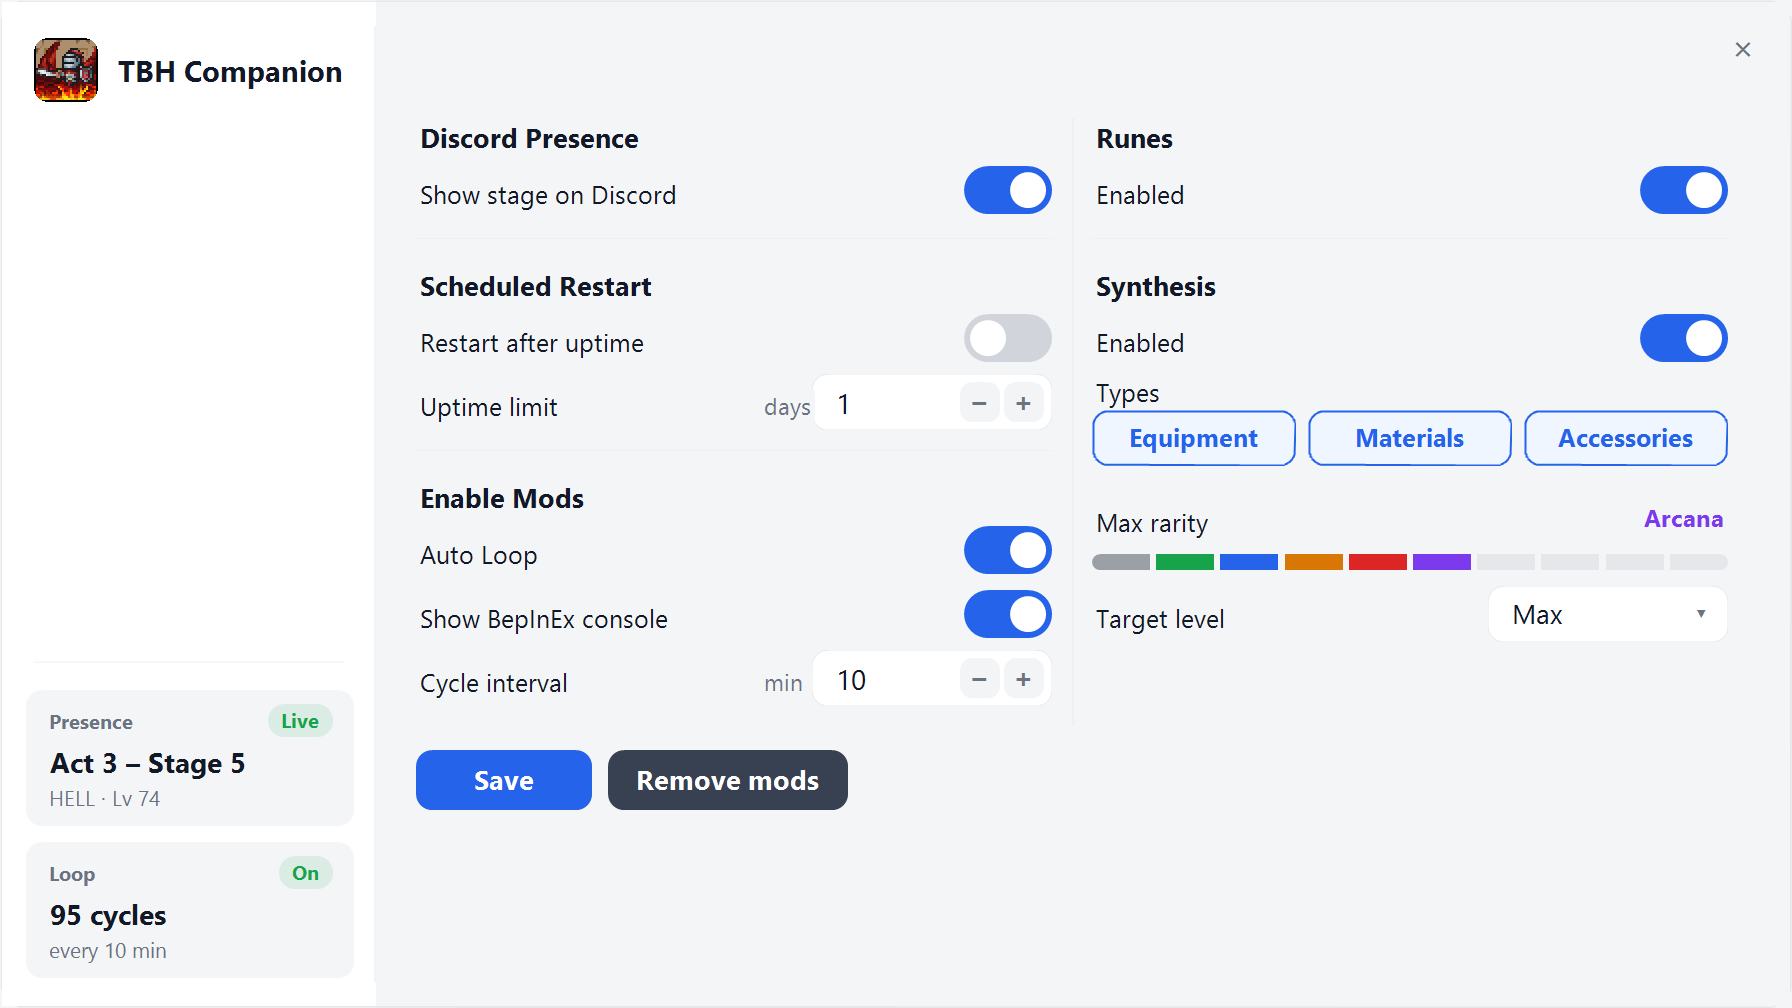
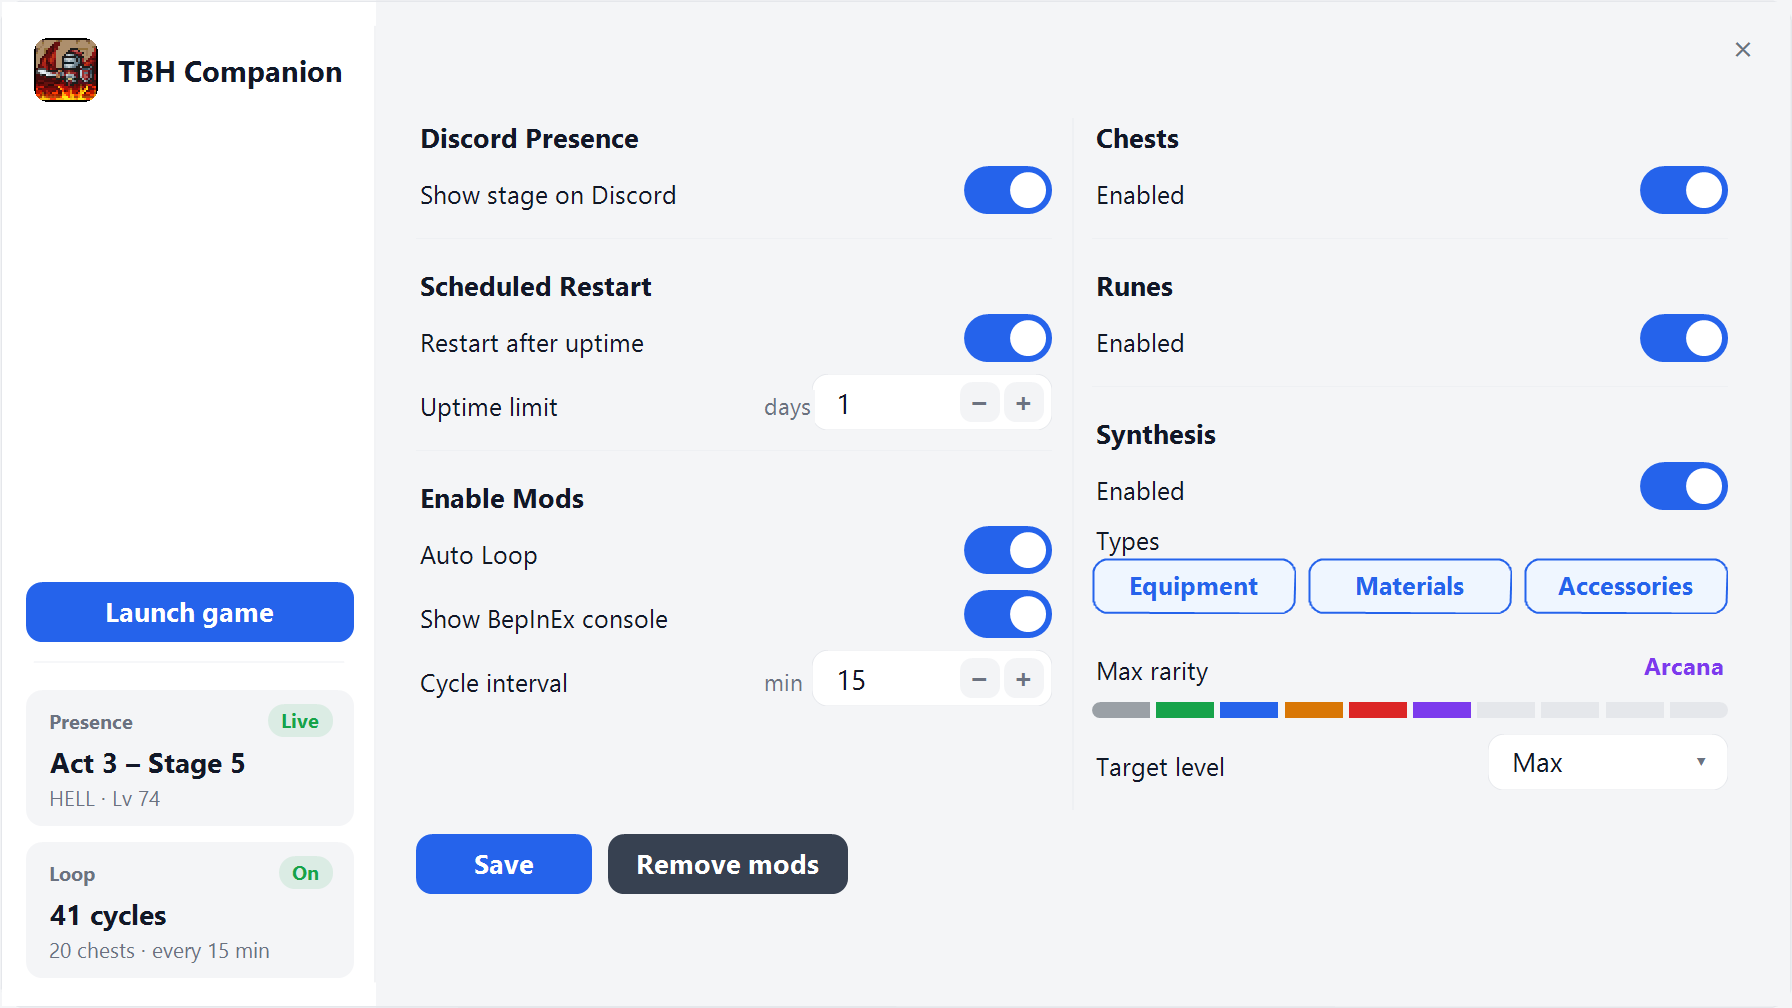
feat(companion): add Launch game button to the side panel (#30)
* feat(companion): add Launch game button to the side panel

EOF

* fix(companion): share LaunchAndConfirm for side-panel launch

---------

diff --git a/src/StatusForm.cs b/src/StatusForm.cs
@@ -84,7 +84,7 @@ namespace TbhCompanion
         Label _rarityValue;
         Stepper _cycleMin, _restartDays;
         FlatDrop _desiredLevel;
-        FlatButton _saveBtn, _setupBtn, _removeBtn;
+        FlatButton _saveBtn, _setupBtn, _removeBtn, _launchBtn;
         Label _cfgNote;
 
         public StatusForm(Func<string> stageLabel, Func<bool> discordConnected, Func<string> diag,
@@ -160,6 +160,14 @@ namespace TbhCompanion
             if (Build.Synth)
                 _live.SetRow(1, "Loop", "—", "", "Off", Theme.TextMuted);
             _side.Controls.Add(_live);
+
+            // Launch sits just above the status rule.
+            const int launchH = 30;
+            _launchBtn = new FlatButton { Text = "Launch game", Fill = Theme.Accent };
+            _launchBtn.SetBounds(Sc(12), _live.Top - Sc(14 + 10 + launchH), Sc(SideW - 24), Sc(launchH));
+            _launchBtn.Click += delegate { LaunchGame(); };
+            _side.Controls.Add(_launchBtn);
+            RefreshLaunchButton();
         }
 
         void PaintSide(object sender, PaintEventArgs e)
@@ -173,7 +181,7 @@ namespace TbhCompanion
             using (var f = Theme.F(11f, FontStyle.Bold)) using (var b = new SolidBrush(Theme.TextDark))
                 g.DrawString("TBH Companion", f, b, new PointF(Sc(56), Sc(24)));
 
-            // Soft rule above the status block.
+            // Soft rule between the launch button and the status block.
             int ruleY = _live.Top - Sc(14);
             using (var pen = new Pen(Theme.Divider))
                 g.DrawLine(pen, Sc(16), ruleY, _side.Width - Sc(16), ruleY);
@@ -654,6 +662,39 @@ namespace TbhCompanion
             catch { }
         }
 
+        // ---- launch game ----
+
+        void LaunchGame()
+        {
+            if (_modOpRunning || GameRestart.IsGameRunning() || GameRestart.IsBusy)
+            {
+                RefreshLaunchButton();
+                return;
+            }
+            GameRestart.TryBeginLaunch();
+            RefreshLaunchButton();
+        }
+
+        void RefreshLaunchButton()
+        {
+            if (_launchBtn == null) return;
+            bool running = GameRestart.IsGameRunning();
+            bool launching = GameRestart.IsLaunching();
+            _launchBtn.Enabled = !running && !launching && !_modOpRunning;
+            _launchBtn.Text = running ? "Running" : launching ? "Launching…" : "Launch game";
+            _launchBtn.Invalidate();
+        }
+
+        // Dev (--shot): freeze the idle launch label so docs don't depend on a live game.
+        internal void PrepareDocsShot()
+        {
+            if (_timer != null) _timer.Stop();
+            if (_launchBtn == null) return;
+            _launchBtn.Enabled = true;
+            _launchBtn.Text = "Launch game";
+            _launchBtn.Invalidate();
+        }
+
         // ---- live status ----
 
         void UpdateStatus()
@@ -662,6 +703,8 @@ namespace TbhCompanion
             bool connected = _discordConnected != null && _discordConnected();
             string diag = _diag != null ? _diag() : null;
             bool presenceOn = _presenceEnabled == null || _presenceEnabled();
+
+            RefreshLaunchButton();
 
             if (_presenceToggle != null && _presenceToggle.Checked != presenceOn)
                 _presenceToggle.Checked = presenceOn;

diff --git a/src/GameRestart.cs b/src/GameRestart.cs
@@ -5,9 +5,9 @@ using System.Threading;
 
 namespace TbhCompanion
 {
-    // Closes and relaunches TaskBarHero after a configurable uptime, so long
-    // idle sessions can shed accumulated RAM. Opt-in via AppSettings.
-    // Heavy work runs on a background thread so the presence loop stays responsive.
+    // TaskBarHero process lifecycle: user launch, and optional scheduled
+    // close/relaunch after a configurable uptime (AppSettings). Heavy work
+    // runs on a background thread so the presence loop stays responsive.
     static class GameRestart
     {
         const string GAME = "TaskBarHero";
@@ -16,9 +16,30 @@ namespace TbhCompanion
         const int ExeAppearSeconds = 20;
 
         static DateTime _cooldownUntilUtc = DateTime.MinValue;
-        static int _busy; // 0 idle, 1 restart in flight
+        static int _busy; // 0 idle, 1 launch/restart in flight
 
         public static bool IsBusy { get { return _busy != 0; } }
+
+        public static bool IsGameRunning() { return FindGame() != null; }
+
+        // True while a launch/restart is in flight and the game process is not up yet.
+        public static bool IsLaunching() { return _busy != 0 && FindGame() == null; }
+
+        // Queue Steam → wait → exe fallback on a worker. Returns false if the game
+        // is already running or another launch/restart holds the busy lock.
+        public static bool TryBeginLaunch(Action<string> log = null)
+        {
+            if (FindGame() != null) return false;
+            if (Interlocked.CompareExchange(ref _busy, 1, 0) != 0) return false;
+
+            string exePath = ResolveExePath(null);
+            ThreadPool.QueueUserWorkItem(delegate
+            {
+                try { LaunchAndConfirm(exePath, log, delegate { return true; }); }
+                finally { Interlocked.Exchange(ref _busy, 0); }
+            });
+            return true;
+        }
 
         // Block until an in-flight restart finishes (tray shutdown).
         public static void WaitIdle(int timeoutMs)
@@ -66,13 +87,8 @@ namespace TbhCompanion
 
             // Capture what we need — Process may dispose after the caller breaks out.
             int pid = 0;
-            string exePath = null;
-            try { if (proc != null) { pid = proc.Id; exePath = proc.MainModule.FileName; } } catch { }
-            if (exePath == null)
-            {
-                string dir = AutoSynthDeploy.FindGameDir();
-                if (dir != null) exePath = Path.Combine(dir, "TaskBarHero.exe");
-            }
+            try { if (proc != null) pid = proc.Id; } catch { }
+            string exePath = ResolveExePath(proc);
             int days = AppSettings.AutoRestartDays;
             Func<bool> alive = keepGoing ?? (delegate { return true; });
 
@@ -185,6 +201,13 @@ namespace TbhCompanion
                 return true;
             }
             catch { return false; }
+        }
+
+        static string ResolveExePath(Process proc)
+        {
+            try { if (proc != null) return proc.MainModule.FileName; } catch { }
+            string dir = AutoSynthDeploy.FindGameDir();
+            return dir != null ? Path.Combine(dir, "TaskBarHero.exe") : null;
         }
 
         static bool WaitForGame(int seconds)

diff --git a/src/BepInExSetup.cs b/src/BepInExSetup.cs
@@ -52,11 +52,7 @@ namespace TbhCompanion
             return false;
         }
 
-        public static bool GameRunning()
-        {
-            try { return System.Diagnostics.Process.GetProcessesByName("TaskBarHero").Length > 0; }
-            catch { return false; }
-        }
+        public static bool GameRunning() { return GameRestart.IsGameRunning(); }
 
         // Shared preflight for Install/Uninstall. Returns false after logging why.
         static bool TryResolveGameDir(Action<string> log, out string gameDir)

diff --git a/src/Program.cs b/src/Program.cs
@@ -52,6 +52,8 @@ namespace TbhCompanion
                         form.Location = new System.Drawing.Point(-3000, -3000);
                         form.Show();
                         for (int k = 0; k < 8; k++) { Application.DoEvents(); System.Threading.Thread.Sleep(60); }
+                        form.PrepareDocsShot();
+                        Application.DoEvents();
                         var bmp = new System.Drawing.Bitmap(form.Width, form.Height);
                         form.DrawToBitmap(bmp, new System.Drawing.Rectangle(0, 0, form.Width, form.Height));
                         bmp.Save(shotPath);

diff --git a/README.md b/README.md
@@ -107,9 +107,9 @@ memory.
 
 ![The Status & Settings window](docs/settings-window.png)
 
-Left rail shows live status: Discord presence (stage/difficulty) and the
-auto-synthesis loop (on/off, cycle count, interval). The right pane has the
-settings in two columns:
+Left rail shows a **Launch game** button, plus live status: Discord presence
+(stage/difficulty) and the auto-synthesis loop (on/off, cycle count, interval).
+The right pane has the settings in two columns:
 
 - **Left**
   - **Discord Presence** — *Show stage on Discord* (also on the tray menu).